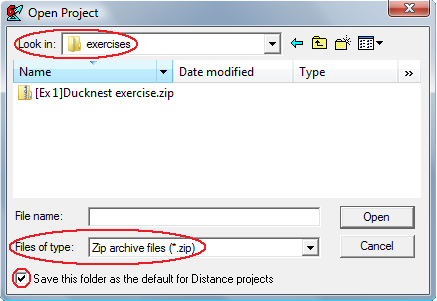
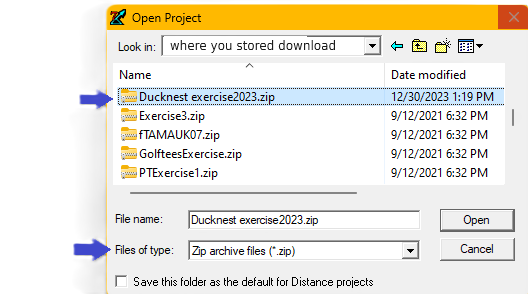
pr2 distwin tidy language

diff --git a/docs/02-detfns/DistWin-prac/Pr2-instructions-DistWin.html b/docs/02-detfns/DistWin-prac/Pr2-instructions-DistWin.html
@@ -259,13 +259,17 @@ ul.task-list li input[type="checkbox"] {
 <section id="working-on-the-computer" class="level2">
 <h2 class="anchored" data-anchor-id="working-on-the-computer">Working on the computer</h2>
 <ul>
-<li>Download and install the Distance software from http://distancesampling.org/Distance/distance75download.html, if you have not already. Once you have installed it, run <code>Distance</code>.</li>
-<li>Acquire the <code>Distance</code> project for this exercise
+<li>Install the Distance software:
 <ul>
-<li>Click on <a href="Ducknest exercise.zip">this link</a> to access data to be used in this exercise.</li>
+<li>Download and install the Distance software from http://distancesampling.org/Distance/distance75download.html, if you have not already.</li>
 </ul></li>
-<li>We are going to work with a project called “Ducknest exercise”. It contains the same data you previously analysed by hand. Back in the Distance software, select <strong>File</strong> followed by <strong>Open project</strong>. Under “<strong>Files of type</strong>” choose <strong>Zip archive files (*.zip).</strong></li>
+<li>Acquire the <code>Distance</code> project for this exercise:
+<ul>
+<li>Click on <a href="Ducknest exercise2023.zip">this link</a> to access data to be used in this exercise. You will be asked to save this file to your local computer. Remember the location where you saved the file, as you will be opening it in the next step.</li>
+</ul></li>
+<li>We are going to work with a project called “Ducknest exercise”. It contains the same data you previously analysed by hand. Open the Distance software and select <strong>File</strong> followed by <strong>Open project</strong>. Under “<strong>Files of type</strong>” choose <strong>Zip archive files (*.zip).</strong></li>
 </ul>
+<p><img src="media/image1.png" class="img-fluid"></p>
 <div class="callout callout-style-default callout-tip callout-titled">
 <div class="callout-header d-flex align-content-center" data-bs-toggle="collapse" data-bs-target=".callout-1-contents" aria-controls="callout-1" aria-expanded="true" aria-label="Toggle callout">
 <div class="callout-icon-container">
@@ -282,7 +286,6 @@ Other <code>Distance</code> projects
 </div>
 </div>
 </div>
-<p><img src="media/image1.png" class="img-fluid"></p>
 <ul>
 <li>Double click on <strong>Ducknest exercise.zip</strong>. Click <strong>OK</strong> to unpack the project into the current directory and open it. Next time you open the project, you can open the file <em>Ducknest exercise.dst</em> directly.</li>
 </ul>
